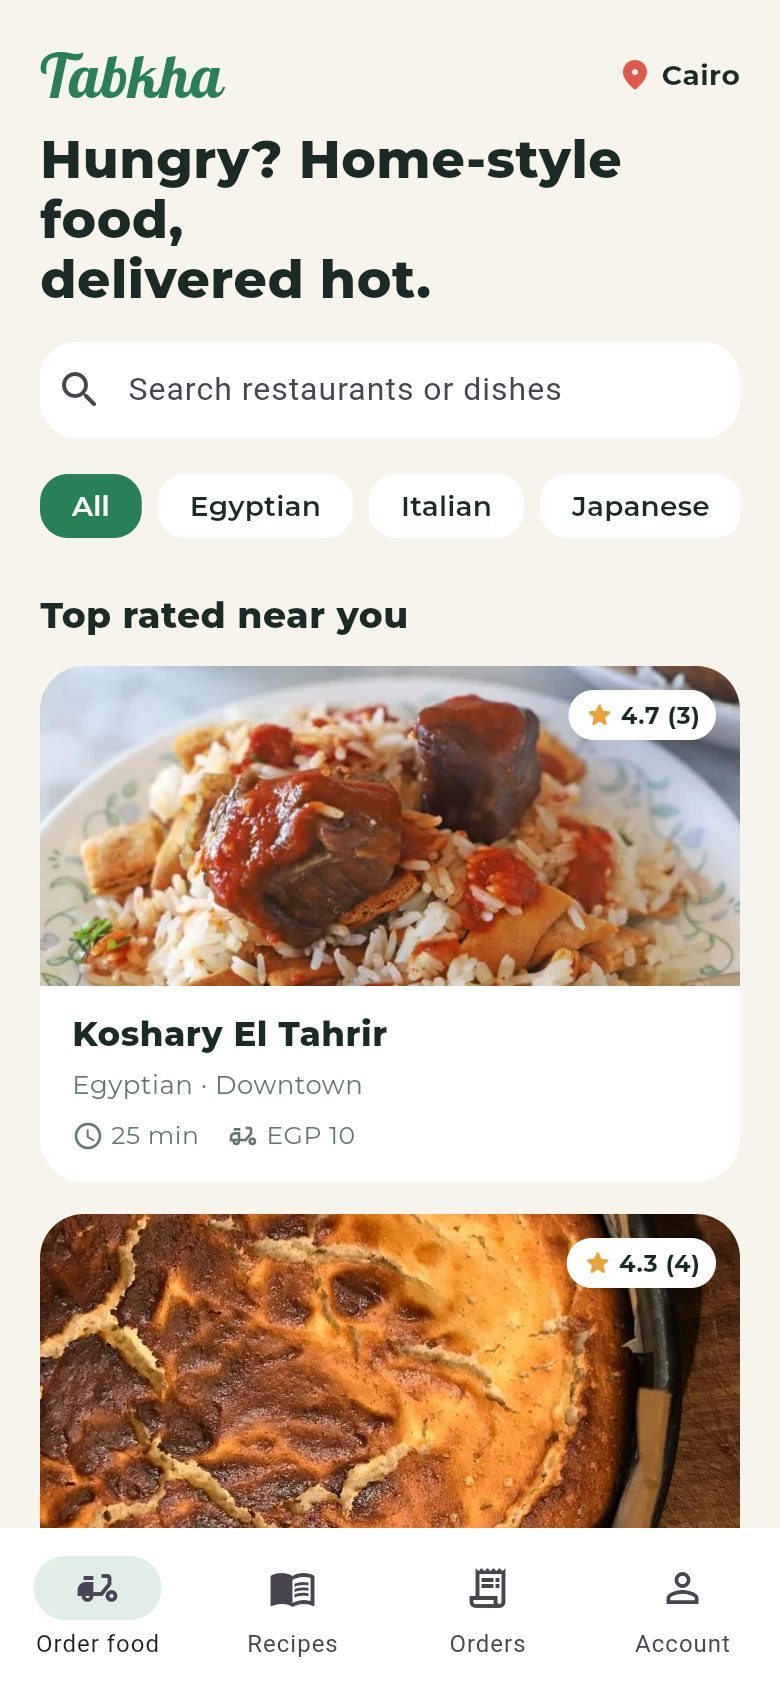
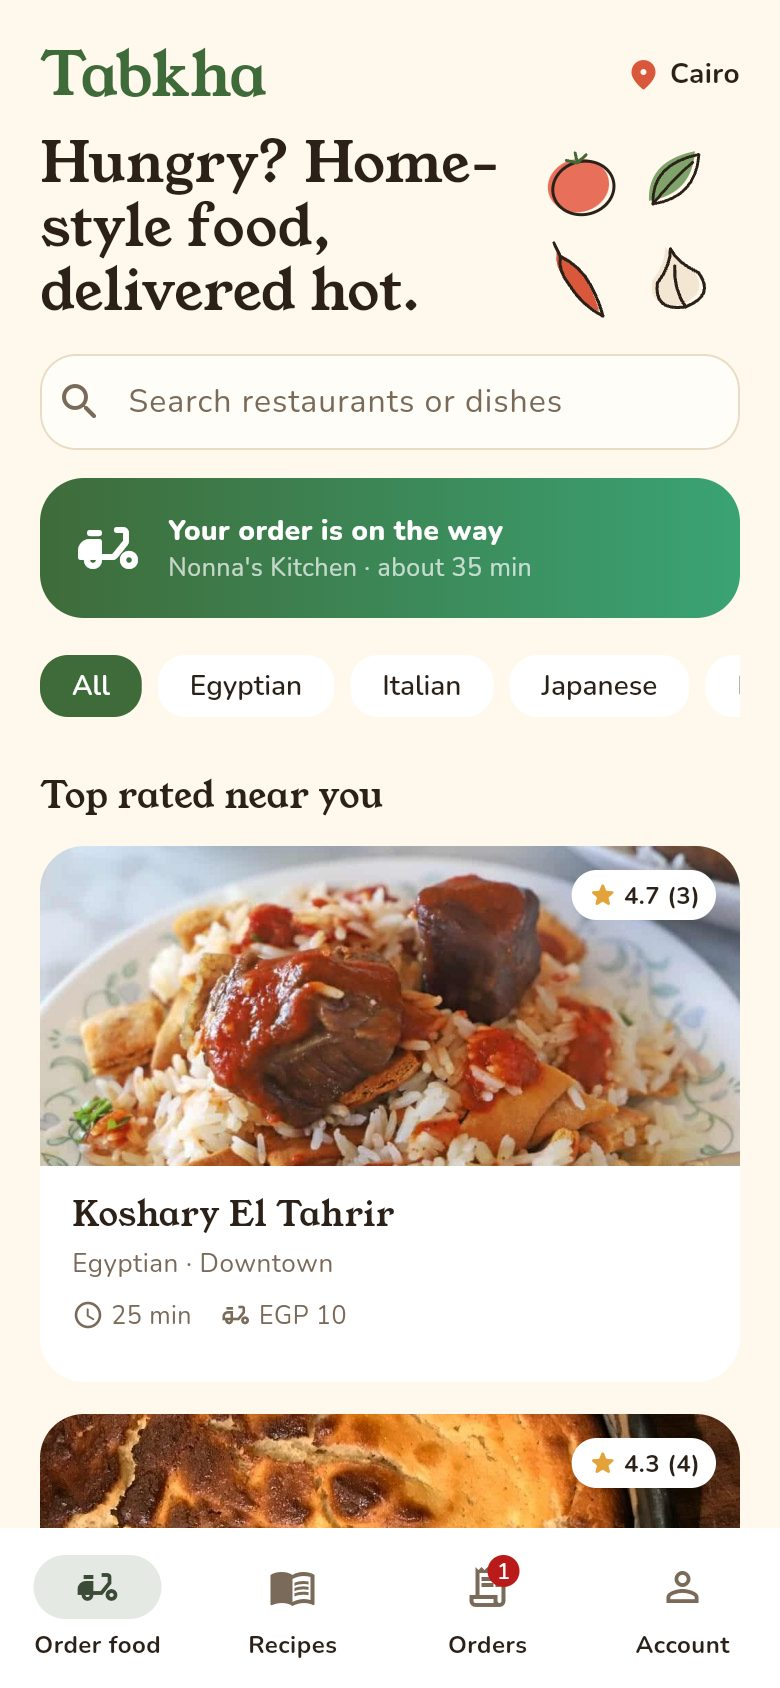
Landing page, README and brand guide for the redesign

diff --git a/site/index.html b/site/index.html
@@ -7,36 +7,38 @@
 <title>Tabkha</title>
 <meta name="description" content="Tabkha is a bilingual food delivery and recipes app with dashboards for restaurants and the platform.">
 <link rel="preconnect" href="https://fonts.googleapis.com">
-<link href="https://fonts.googleapis.com/css2?family=Plus+Jakarta+Sans:wght@400;600;800&display=swap" rel="stylesheet">
+<link rel="preconnect" href="https://fonts.gstatic.com" crossorigin>
+<link href="https://fonts.googleapis.com/css2?family=Young+Serif&family=Nunito:wght@400;600;800&display=swap" rel="stylesheet">
 <style>
-:root{--on-brand:#fff;--brand:#2A8056;--brand-soft:#E4F2EA;--coral:#FF6B57;--ink:#13201E;--muted:#5B6B68;--bg:#F6F7F5;--card:#fff;--line:#E4E8E6}
-@media (prefers-color-scheme:dark){:root{--on-brand:#0F1417;--brand:#5CC48F;--brand-soft:#173024;--ink:#EAF2F0;--muted:#9AB0AB;--bg:#0F1417;--card:#182025;--line:#25313A}}
+:root{--on-brand:#fff;--brand:#3F6B3A;--brand-soft:#DDE8D3;--coral:#D9583B;--ink:#2B2118;--muted:#7A6A5A;--bg:#FFF8EC;--card:#FFFDF8;--line:#EADCC4}
+@media (prefers-color-scheme:dark){:root{--on-brand:#1B1611;--brand:#9CC68A;--brand-soft:#26331F;--coral:#F08A6E;--ink:#F6EBDD;--muted:#C2B3A1;--bg:#1B1611;--card:#262019;--line:#3A3027}}
 *{box-sizing:border-box;margin:0}
-body{font-family:"Plus Jakarta Sans",system-ui,sans-serif;background:var(--bg);color:var(--ink);line-height:1.6}
+body{font-family:Nunito,system-ui,sans-serif;background:var(--bg);color:var(--ink);line-height:1.6}
 a{color:inherit}
 .wrap{max-width:1120px;margin:0 auto;padding:0 20px}
 nav{display:flex;align-items:center;justify-content:space-between;padding:20px 0}
-.logo{display:flex;gap:10px;align-items:center;font-weight:800;font-size:20px;text-decoration:none}
+.logo{display:flex;gap:10px;align-items:center;font-family:"Young Serif",Georgia,serif;font-size:24px;text-decoration:none;color:var(--brand)}
+h1,h2,h3{font-family:"Young Serif",Georgia,serif;font-weight:400;letter-spacing:-.01em}
 .logo span{width:34px;height:34px;border-radius:10px;background:var(--brand);display:grid;place-items:center;color:var(--on-brand)}
 nav .links{display:flex;gap:22px;font-weight:600;font-size:15px}
 nav .links a{text-decoration:none;color:var(--muted)}
-.btn{display:inline-flex;align-items:center;gap:8px;padding:14px 22px;border-radius:14px;font-weight:700;text-decoration:none;transition:transform .15s}
+.btn{display:inline-flex;align-items:center;gap:8px;padding:14px 22px;border-radius:999px;font-weight:800;text-decoration:none;transition:transform .15s}
 .btn:hover{transform:translateY(-2px)}
 .btn.primary{background:var(--brand);color:var(--on-brand)}
 .btn.ghost{border:1.5px solid var(--line);background:var(--card)}
 .hero{display:grid;grid-template-columns:1.1fr .9fr;gap:48px;align-items:center;padding:48px 0 72px}
 .pill{display:inline-block;background:var(--brand-soft);color:var(--brand);font-weight:700;font-size:13px;padding:6px 12px;border-radius:999px;margin-bottom:18px}
-h1{font-size:clamp(36px,6vw,60px);line-height:1.05;letter-spacing:-.03em;margin-bottom:18px}
-h1 em{font-style:normal;color:var(--brand)}
+h1{font-size:clamp(36px,6vw,60px);line-height:1.08;margin-bottom:18px}
+h1 em{font-style:normal;color:var(--coral)}
 .lead{font-size:18px;color:var(--muted);max-width:520px;margin-bottom:28px}
 .ctas{display:flex;gap:12px;flex-wrap:wrap}
-.phone{justify-self:center;width:330px;height:660px;border-radius:44px;background:#0b0f10;padding:12px;box-shadow:0 30px 80px -20px rgba(42,128,86,.45)}
+.phone{justify-self:center;width:330px;height:660px;border-radius:44px;background:#2B2118;padding:12px;box-shadow:0 30px 60px -30px rgba(43,33,24,.5)}
 .phone iframe{width:100%;height:100%;border:0;border-radius:34px;background:#fff}
 section{padding:72px 0}
 h2{font-size:clamp(28px,4vw,40px);letter-spacing:-.02em;margin-bottom:12px}
 .sub{color:var(--muted);max-width:620px;margin-bottom:36px}
 .grid{display:grid;grid-template-columns:repeat(3,1fr);gap:16px}
-.card{background:var(--card);border:1px solid var(--line);border-radius:22px;padding:24px}
+.card{background:var(--card);border:1px solid var(--line);border-top:4px solid var(--brand);border-radius:18px;padding:24px}
 .card .ic{font-size:26px;margin-bottom:10px}
 .card h3{font-size:18px;margin-bottom:6px}
 .card p{color:var(--muted);font-size:15px}
@@ -62,7 +64,7 @@ footer{padding:32px 0;color:var(--muted);font-size:14px;display:flex;justify-con
 <body>
 <div class="wrap">
   <nav>
-    <a class="logo" href="./"><span>🍲</span>Tabkha</a>
+    <a class="logo" href="./"><span aria-hidden="true">ط</span>Tabkha</a>
     <div class="links"><a href="#features">Features</a><a href="#dashboard">Dashboards</a><a href="#tech">Tech</a><a href="https://github.com/EyadOraby/tabkha_app">GitHub</a></div>
   </nav>
   <header class="hero">
@@ -71,30 +73,30 @@ footer{padding:32px 0;color:var(--muted);font-size:14px;display:flex;justify-con
       <h1>Order dinner, <em>or cook it yourself.</em></h1>
       <p class="lead">Tabkha brings restaurant delivery and home recipes together in one app. Restaurants run their kitchen from a dashboard, and the platform team approves restaurants and watches every order.</p>
       <div class="ctas">
-        <a class="btn primary" href="app/?screen=home">Open the live demo →</a>
+        <a class="btn primary" href="app/?screen=home">Open the live demo</a>
         <a class="btn ghost" href="app/?screen=admin">Restaurant dashboard</a>
-        <a class="btn ghost" href="https://github.com/EyadOraby/tabkha_app/releases/download/android/tabkha.apk">⬇ Android app</a>
+        <a class="btn ghost" href="https://github.com/EyadOraby/tabkha_app/releases/download/android/tabkha.apk">Android app</a>
       </div>
     </div>
-    <div class="phone live" data-src="app/?screen=home" data-title="Tabkha app"><img src="img/phone.jpg" alt="Tabkha app screenshot"><button type="button">▶ Try it live here</button></div>
+    <div class="phone live" data-src="app/?screen=home" data-title="Tabkha app"><img src="img/phone.jpg" alt="Tabkha app screenshot"><button type="button">Try it live here</button></div>
   </header>
 </div>
 <section id="features"><div class="wrap">
   <h2>Three apps in one</h2>
   <p class="sub">Customers, restaurant owners and platform admins each get their own side of Tabkha, all sharing the same live orders.</p>
   <div class="grid">
-    <div class="card"><div class="ic">🛵</div><h3>Delivery</h3><p>Search restaurants and dishes, filter by cuisine, build a basket and follow your order from placed to delivered.</p></div>
-    <div class="card"><div class="ic">📖</div><h3>Recipes</h3><p>Hundreds of recipes with ingredients, numbered steps and favourites saved on your device.</p></div>
-    <div class="card"><div class="ic">⭐</div><h3>Reviews</h3><p>Rate delivered orders; restaurant ratings update for everyone.</p></div>
-    <div class="card"><div class="ic">🍳</div><h3>Restaurant dashboard</h3><p>Accept orders, move them through the kitchen, mark dishes sold out and add new ones.</p></div>
-    <div class="card"><div class="ic">🛡</div><h3>Platform admin</h3><p>Approve or suspend restaurants, see gross sales and a table of every order.</p></div>
-    <div class="card"><div class="ic">🌍</div><h3>Arabic and English</h3><p>Switch language live with full right-to-left layouts. Sign in with Firebase or continue as a guest.</p></div>
+    <div class="card"><h3>Delivery</h3><p>Search restaurants and dishes, filter by cuisine, build a basket and follow your order from placed to delivered.</p></div>
+    <div class="card"><h3>Recipes</h3><p>Hundreds of recipes with ingredients, numbered steps and favourites saved on your device.</p></div>
+    <div class="card"><h3>Reviews</h3><p>Rate delivered orders; restaurant ratings update for everyone.</p></div>
+    <div class="card"><h3>Restaurant dashboard</h3><p>Accept orders, move them through the kitchen, mark dishes sold out and add new ones.</p></div>
+    <div class="card"><h3>Platform admin</h3><p>Approve or suspend restaurants, see gross sales and a table of every order.</p></div>
+    <div class="card"><h3>Arabic and English</h3><p>Switch language live with full right-to-left layouts. Sign in with Firebase or continue as a guest.</p></div>
   </div>
 </div></section>
 <section id="dashboard"><div class="wrap">
   <h2>Dashboards for restaurants and admins</h2>
   <p class="sub">On a wide screen the dashboards use a side rail; on a phone they switch to bottom tabs. Try the platform view at <a href="app/?screen=superadmin">?screen=superadmin</a>.</p>
-  <div class="browser"><div class="bar"><i></i><i></i><i></i></div><div class="live shot" data-src="app/?screen=admin" data-title="Tabkha restaurant dashboard"><img src="img/dashboard.jpg" alt="Tabkha restaurant dashboard screenshot"><button type="button">▶ Open it live here</button></div></div>
+  <div class="browser"><div class="bar"><i></i><i></i><i></i></div><div class="live shot" data-src="app/?screen=admin" data-title="Tabkha restaurant dashboard"><img src="img/dashboard.jpg" alt="Tabkha restaurant dashboard screenshot"><button type="button">Open it live here</button></div></div>
 </div></section>
 <section id="tech"><div class="wrap">
   <h2>How it's built</h2>

diff --git a/docs/BRAND.md b/docs/BRAND.md
@@ -1,0 +1,37 @@
+# Brand
+
+**Tabkha** (طبخة, "a dish cooked at home"). Warm, home-kitchen food ordering.
+
+## Personality
+
+A neighbour's kitchen, not a delivery app: warm, generous and a little handmade. Friendly, never loud.
+
+## Colour
+
+| Name | Hex | Use |
+|---|---|---|
+| Herb green | `#3F6B3A` | Primary actions, logo, selected states |
+| Tomato | `#D9583B` | Accents, location pin, warnings |
+| Saffron | `#E3A33A` | Ratings, placed orders |
+| Crust | `#B9773D` | Accepted orders, warm details |
+| Cream | `#FFF8EC` | Page background |
+| Paper | `#FFFDF8` | Cards and fields, with `#EADCC4` borders |
+| Ink | `#2B2118` | Text (a warm brown, never pure black) |
+
+## Type
+
+- **Display:** Young Serif, with Lalezar for Arabic
+- **Text:** Nunito, with Baloo Bhaijaan 2 for Arabic
+- All four are SIL Open Font License, bundled in `assets/fonts/brand`.
+
+## Shapes
+
+Generous rounding: stadium buttons and chips, 18 px cards with thin cream borders, no drop shadows and no gradients except dark scrims on food photos.
+
+## Illustration
+
+Hand-drawn ingredient doodles (`lib/Features/Food/Widgets/kitchen_art.dart`): tomato, garlic, chili, basil, lemon, onion, wooden spoon, pot and bread. Each has a flat colour shape printed slightly off its ink outline, like a two-colour risograph. They appear beside the Discover headline, around the logo on sign-in and in every empty state.
+
+## Avoid
+
+Cold blues and purples, emoji as icons, glossy gradients and generic "food app" copy.

diff --git a/README.md b/README.md
@@ -8,6 +8,8 @@
 |---|---|---|
 | ![Home](docs/screenshots/tabkha-home.jpg) | ![Restaurant page](docs/screenshots/tabkha-restaurant.jpg) | ![Admin](docs/screenshots/tabkha-admin.jpg) |
 
+Redesigned in November 2026 around a warm home-kitchen identity: herb green and tomato on cream, Young Serif and Nunito (Lalezar and Baloo Bhaijaan 2 in Arabic) and hand-drawn ingredient doodles. See [docs/BRAND.md](docs/BRAND.md).
+
 ## Features
 
 **Customers**
